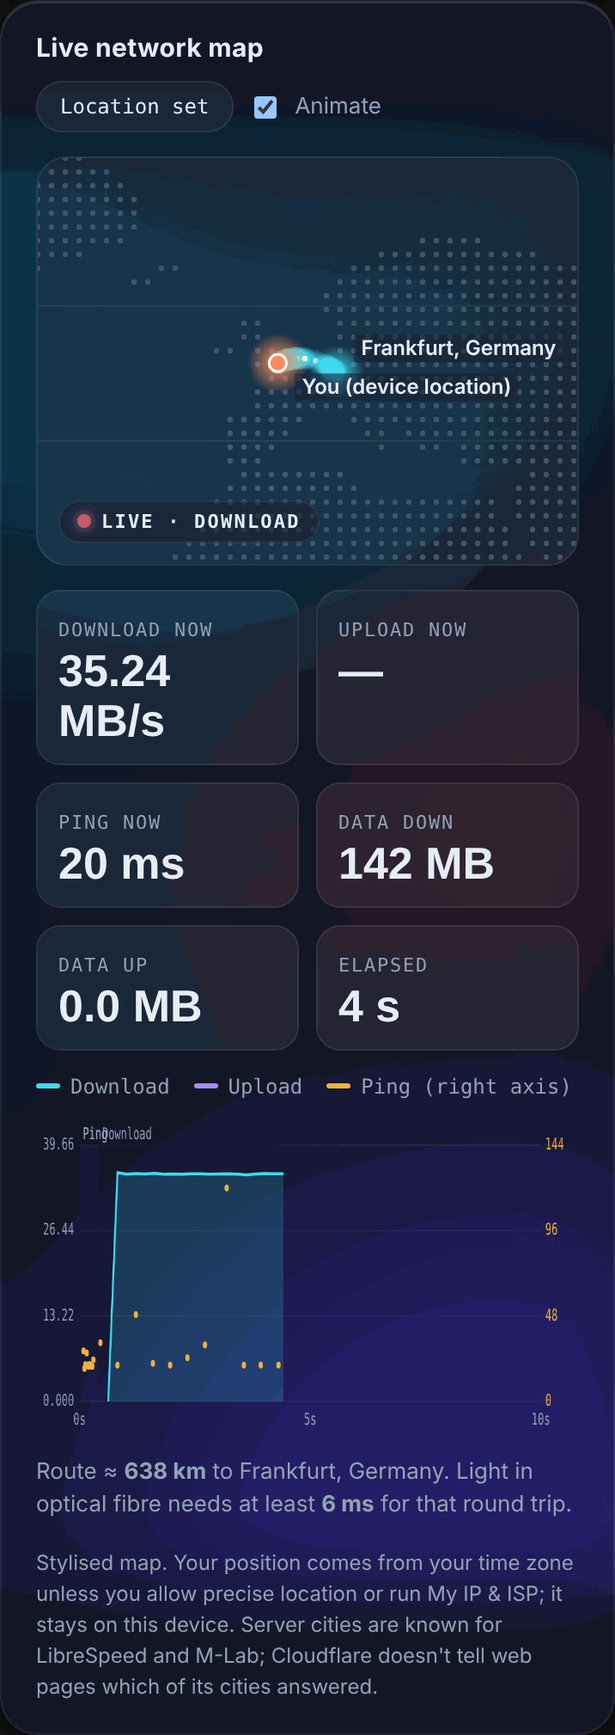
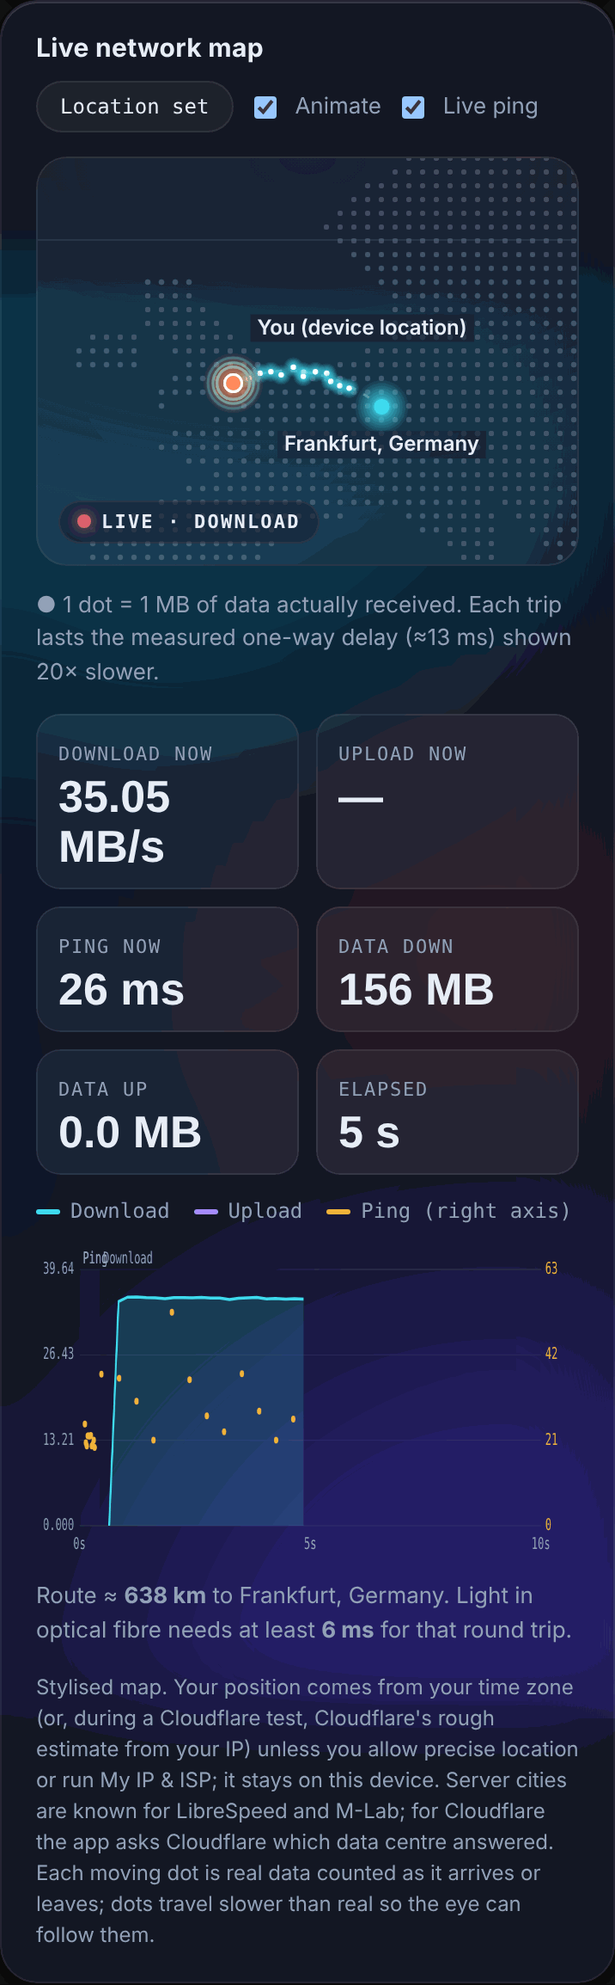
Live map: real-time packet view driven by measured bytes and delay
- Each dot is data actually received/sent (16 KB–256 MB per dot, shown in a
  legend); trip time = measured one-way delay shown 20x slower; pings go
  out and back over their measured round-trip time
- Live ping after a test (every 2 s, only while the map is visible; toggle)
- Cloudflare: look up the answering data centre via /meta or
  /cdn-cgi/trace and draw the real route; more airport codes
- Map zooms to fit short routes; labels never cover markers or the route
- README: map, servers, privacy, limitations and changelog updated;
  screenshots regenerated (fictional sample data)

Claude-Session: https://claude.ai/code/session_01WewRtG4UNMSrnVFMQRkw9g

diff --git a/index.html b/index.html
@@ -333,9 +333,11 @@ footer{font-size:12px;color:var(--muted);text-align:center}
   <section class="glass pad" id="livePanel" aria-label="Live network map">
     <div class="srvhead"><h2>Live network map</h2>
       <div class="row"><button class="ghost" id="lvLocate">Use precise location</button>
-        <label class="consent" style="align-items:center"><input type="checkbox" id="lvAnim" checked> Animate</label></div></div>
+        <label class="consent" style="align-items:center"><input type="checkbox" id="lvAnim" checked> Animate</label>
+        <label class="consent" style="align-items:center" title="While the map is on screen, ping the last test server every 2 seconds"><input type="checkbox" id="lvLive"> Live ping</label></div></div>
     <div class="mapwrap"><canvas id="map" width="1200" height="560" aria-label="Map of the route between you and the test server"></canvas>
       <div class="lvbadge" id="lvBadge"><i></i><span id="lvState">Idle</span></div></div>
+    <p class="note" id="lvKey" aria-live="off"></p>
     <div class="stats">
       <div class="stat"><small>Download now</small><b id="lvDown">—</b></div>
       <div class="stat"><small>Upload now</small><b id="lvUp">—</b></div>
@@ -347,7 +349,7 @@ footer{font-size:12px;color:var(--muted);text-align:center}
     <div class="legend"><span><i style="background:var(--down)"></i>Download</span><span><i style="background:var(--up)"></i>Upload</span><span><i style="background:var(--ok)"></i>Ping (right axis)</span></div>
     <canvas id="tele" width="1000" height="360" aria-label="Live timeline of download, upload and ping"></canvas>
     <p class="note" id="lvRoute">Run a test to trace the route to the server.</p>
-    <p class="cant" id="lvWhere">Stylised map. Your position comes from your time zone unless you allow precise location or run My IP &amp; ISP; it stays on this device. Server cities are known for LibreSpeed and M-Lab; Cloudflare doesn't tell web pages which of its cities answered.</p>
+    <p class="cant" id="lvWhere">Stylised map. Your position comes from your time zone (or, during a Cloudflare test, Cloudflare's rough estimate from your IP) unless you allow precise location or run My IP &amp; ISP; it stays on this device. Server cities are known for LibreSpeed and M-Lab; for Cloudflare the app asks Cloudflare which data centre answered. Each moving dot is real data counted as it arrives or leaves; dots travel slower than real so the eye can follow them.</p>
   </section>
 
   <!-- ============ Toolkit ============ -->
@@ -1402,8 +1404,11 @@ let VIEW=null; // fitted window: {lon0,lat1,ppd}; set per frame size and route
 const proj=(lon,lat)=>[(lon-VIEW.lon0)*VIEW.ppd,(VIEW.lat1-lat)*VIEW.ppd];
 function fitView(W,H,pts){
   let lo0=-180,lo1=180,la0=LAT_BOT,la1=LAT_TOP;
-  if(pts.length){ lo0=Math.min(...pts.map(p=>p.lon))-28; lo1=Math.max(...pts.map(p=>p.lon))+28; la0=Math.min(...pts.map(p=>p.lat))-16; la1=Math.max(...pts.map(p=>p.lat))+18;
-    if(lo1-lo0<80){ const c=(lo0+lo1)/2; lo0=c-40; lo1=c+40 } }
+  if(pts.length){ // zoom so the route fills the frame: a short route (London–Frankfurt) gets a regional view, not a world view
+    const mnLo=Math.min(...pts.map(p=>p.lon)), mxLo=Math.max(...pts.map(p=>p.lon)), mnLa=Math.min(...pts.map(p=>p.lat)), mxLa=Math.max(...pts.map(p=>p.lat));
+    const pLo=Math.max(8,(mxLo-mnLo)*0.45), pLa=Math.max(6,(mxLa-mnLa)*0.45);
+    lo0=mnLo-pLo; lo1=mxLo+pLo; la0=mnLa-pLa; la1=mxLa+pLa+4;
+    if(lo1-lo0<32){ const c=(lo0+lo1)/2; lo0=c-16; lo1=c+16 } }
   let ppd=Math.min(W/(lo1-lo0),H/(la1-la0)); // same scale both ways, then grow the short side to fill the frame
   const cl=(lo0+lo1)/2, ca=(la0+la1)/2, spanLo=W/ppd, spanLa=H/ppd;
   let lon0=Math.max(-180,Math.min(180-spanLo,cl-spanLo/2)); if(spanLo>=360) lon0=-180-(spanLo-360)/2;
@@ -1430,12 +1435,13 @@ const TZ_LOC={"Asia/Kolkata":[20.6,78.9,"India"],"Asia/Calcutta":[20.6,78.9,"Ind
  "America/Sao_Paulo":[-23.5,-46.6,"São Paulo"],"America/Argentina/Buenos_Aires":[-34.6,-58.4,"Buenos Aires"],"Australia/Sydney":[-33.9,151.2,"Sydney"],
  "Australia/Melbourne":[-37.8,145,"Melbourne"],"Australia/Perth":[-31.95,115.9,"Perth"],"Pacific/Auckland":[-36.85,174.8,"Auckland"]};
 // Airport codes in M-Lab machine names (e.g. mlab1-maa02 → Chennai) and city names in LibreSpeed server names.
-const IATA=Object.fromEntries(`maa 13.08 80.27 Chennai|bom 19.08 72.88 Mumbai|del 28.61 77.21 Delhi|blr 12.97 77.59 Bengaluru|hyd 17.39 78.49 Hyderabad|ccu 22.57 88.36 Kolkata|sin 1.35 103.82 Singapore|hkg 22.32 114.17 Hong Kong|tpe 25.03 121.56 Taipei|nrt 35.68 139.69 Tokyo|hnd 35.68 139.69 Tokyo|tyo 35.68 139.69 Tokyo|kix 34.69 135.5 Osaka|icn 37.57 126.98 Seoul|syd -33.87 151.21 Sydney|mel -37.81 144.96 Melbourne|akl -36.85 174.76 Auckland|bkk 13.75 100.5 Bangkok|kul 3.14 101.69 Kuala Lumpur|cgk -6.2 106.85 Jakarta|mnl 14.6 120.98 Manila|dxb 25.2 55.27 Dubai|doh 25.29 51.53 Doha|bah 26.23 50.58 Bahrain|tlv 32.08 34.78 Tel Aviv|ist 41.01 28.98 Istanbul|jnb -26.2 28.05 Johannesburg|cpt -33.92 18.42 Cape Town|nbo -1.29 36.82 Nairobi|los 6.52 3.38 Lagos|cai 30.04 31.24 Cairo|tun 36.8 10.18 Tunis|lhr 51.51 -0.13 London|lon 51.51 -0.13 London|ams 52.37 4.9 Amsterdam|fra 50.11 8.68 Frankfurt|cdg 48.86 2.35 Paris|par 48.86 2.35 Paris|mad 40.42 -3.7 Madrid|lis 38.72 -9.14 Lisbon|mil 45.46 9.19 Milan|mxp 45.46 9.19 Milan|fco 41.9 12.5 Rome|vie 48.21 16.37 Vienna|prg 50.08 14.44 Prague|waw 52.23 21.01 Warsaw|arn 59.33 18.07 Stockholm|cph 55.68 12.57 Copenhagen|osl 59.91 10.75 Oslo|hel 60.17 24.94 Helsinki|dub 53.35 -6.26 Dublin|ath 37.98 23.73 Athens|svo 55.76 37.62 Moscow|lga 40.71 -74.01 New York|jfk 40.71 -74.01 New York|ewr 40.71 -74.01 New York|nyc 40.71 -74.01 New York|iad 38.9 -77.04 Washington|was 38.9 -77.04 Washington|atl 33.75 -84.39 Atlanta|mia 25.76 -80.19 Miami|ord 41.88 -87.63 Chicago|chi 41.88 -87.63 Chicago|dfw 32.78 -96.8 Dallas|iah 29.76 -95.37 Houston|den 39.74 -104.99 Denver|lax 34.05 -118.24 Los Angeles|sjc 37.34 -121.89 San Jose|sfo 37.77 -122.42 San Francisco|sea 47.61 -122.33 Seattle|pdx 45.52 -122.68 Portland|phx 33.45 -112.07 Phoenix|slc 40.76 -111.89 Salt Lake City|msp 44.98 -93.27 Minneapolis|bos 42.36 -71.06 Boston|yyz 43.65 -79.38 Toronto|yul 45.5 -73.57 Montreal|yvr 49.28 -123.12 Vancouver|gru -23.55 -46.63 São Paulo|scl -33.45 -70.67 Santiago|bog 4.71 -74.07 Bogotá|eze -34.6 -58.38 Buenos Aires|mex 19.43 -99.13 Mexico City|lim -12.05 -77.04 Lima`
+const IATA=Object.fromEntries(`maa 13.08 80.27 Chennai|bom 19.08 72.88 Mumbai|del 28.61 77.21 Delhi|blr 12.97 77.59 Bengaluru|hyd 17.39 78.49 Hyderabad|ccu 22.57 88.36 Kolkata|sin 1.35 103.82 Singapore|hkg 22.32 114.17 Hong Kong|tpe 25.03 121.56 Taipei|nrt 35.68 139.69 Tokyo|hnd 35.68 139.69 Tokyo|tyo 35.68 139.69 Tokyo|kix 34.69 135.5 Osaka|icn 37.57 126.98 Seoul|syd -33.87 151.21 Sydney|mel -37.81 144.96 Melbourne|akl -36.85 174.76 Auckland|bkk 13.75 100.5 Bangkok|kul 3.14 101.69 Kuala Lumpur|cgk -6.2 106.85 Jakarta|mnl 14.6 120.98 Manila|dxb 25.2 55.27 Dubai|doh 25.29 51.53 Doha|bah 26.23 50.58 Bahrain|tlv 32.08 34.78 Tel Aviv|ist 41.01 28.98 Istanbul|jnb -26.2 28.05 Johannesburg|cpt -33.92 18.42 Cape Town|nbo -1.29 36.82 Nairobi|los 6.52 3.38 Lagos|cai 30.04 31.24 Cairo|tun 36.8 10.18 Tunis|lhr 51.51 -0.13 London|lon 51.51 -0.13 London|ams 52.37 4.9 Amsterdam|fra 50.11 8.68 Frankfurt|cdg 48.86 2.35 Paris|par 48.86 2.35 Paris|mad 40.42 -3.7 Madrid|lis 38.72 -9.14 Lisbon|mil 45.46 9.19 Milan|mxp 45.46 9.19 Milan|fco 41.9 12.5 Rome|vie 48.21 16.37 Vienna|prg 50.08 14.44 Prague|waw 52.23 21.01 Warsaw|arn 59.33 18.07 Stockholm|cph 55.68 12.57 Copenhagen|osl 59.91 10.75 Oslo|hel 60.17 24.94 Helsinki|dub 53.35 -6.26 Dublin|ath 37.98 23.73 Athens|svo 55.76 37.62 Moscow|lga 40.71 -74.01 New York|jfk 40.71 -74.01 New York|ewr 40.71 -74.01 New York|nyc 40.71 -74.01 New York|iad 38.9 -77.04 Washington|was 38.9 -77.04 Washington|atl 33.75 -84.39 Atlanta|mia 25.76 -80.19 Miami|ord 41.88 -87.63 Chicago|chi 41.88 -87.63 Chicago|dfw 32.78 -96.8 Dallas|iah 29.76 -95.37 Houston|den 39.74 -104.99 Denver|lax 34.05 -118.24 Los Angeles|sjc 37.34 -121.89 San Jose|sfo 37.77 -122.42 San Francisco|sea 47.61 -122.33 Seattle|pdx 45.52 -122.68 Portland|phx 33.45 -112.07 Phoenix|slc 40.76 -111.89 Salt Lake City|msp 44.98 -93.27 Minneapolis|bos 42.36 -71.06 Boston|yyz 43.65 -79.38 Toronto|yul 45.5 -73.57 Montreal|yvr 49.28 -123.12 Vancouver|gru -23.55 -46.63 São Paulo|scl -33.45 -70.67 Santiago|bog 4.71 -74.07 Bogotá|eze -34.6 -58.38 Buenos Aires|mex 19.43 -99.13 Mexico City|lim -12.05 -77.04 Lima|amd 23.02 72.57 Ahmedabad|bbi 20.3 85.82 Bhubaneswar|cok 9.93 76.27 Kochi|nag 21.15 79.09 Nagpur|pat 25.59 85.14 Patna|ixc 30.73 76.78 Chandigarh|cmb 6.93 79.85 Colombo|dac 23.81 90.41 Dhaka|ktm 27.72 85.32 Kathmandu|khi 24.86 67 Karachi|isb 33.68 73.05 Islamabad|ruh 24.71 46.68 Riyadh|jed 21.49 39.19 Jeddah|mct 23.59 58.41 Muscat|kwi 29.38 47.99 Kuwait City|zrh 47.38 8.54 Zurich|gva 46.2 6.14 Geneva|bru 50.85 4.35 Brussels|man 53.48 -2.24 Manchester|edi 55.95 -3.19 Edinburgh|mrs 43.3 5.37 Marseille|bcn 41.39 2.17 Barcelona|muc 48.14 11.58 Munich|ham 53.55 9.99 Hamburg|dus 51.23 6.78 Düsseldorf|txl 52.52 13.4 Berlin|ber 52.52 13.4 Berlin|bud 47.5 19.04 Budapest|otp 44.43 26.1 Bucharest|sof 42.7 23.32 Sofia|kbp 50.45 30.52 Kyiv|bne -27.47 153.03 Brisbane|per -31.95 115.86 Perth|adl -34.93 138.6 Adelaide|han 21.03 105.85 Hanoi|sgn 10.82 106.63 Ho Chi Minh City|pnh 11.56 104.92 Phnom Penh|rgn 16.87 96.2 Yangon|cmn 33.57 -7.59 Casablanca|acc 5.6 -0.19 Accra|dar -6.79 39.21 Dar es Salaam|kgl -1.94 30.06 Kigali|gig -22.91 -43.17 Rio de Janeiro|for -3.72 -38.54 Fortaleza|uio -0.18 -78.47 Quito|pty 8.98 -79.52 Panama City|qro 20.59 -100.39 Querétaro|yyc 51.05 -114.07 Calgary|las 36.17 -115.14 Las Vegas|mci 39.1 -94.58 Kansas City|clt 35.23 -80.84 Charlotte|tpa 27.95 -82.46 Tampa|bna 36.16 -86.78 Nashville|ind 39.77 -86.16 Indianapolis|cmh 39.96 -83 Columbus|phl 39.95 -75.17 Philadelphia|pit 40.44 -80 Pittsburgh|stl 38.63 -90.2 St. Louis|sat 29.42 -98.49 San Antonio|aus 30.27 -97.74 Austin|hnl 21.31 -157.86 Honolulu|anc 61.22 -149.9 Anchorage|fuk 33.59 130.4 Fukuoka|ngo 35.18 136.91 Nagoya|cts 43.06 141.35 Sapporo`
  .split("|").map(r=>{const p=r.split(" "); return [p[0],[+p[1],+p[2],p.slice(3).join(" ")]]}));
 const CITY=Object.fromEntries(`Roma 41.9 12.5|Rome 41.9 12.5|London 51.51 -0.13|Frankfurt 50.11 8.68|Amsterdam 52.37 4.9|New York 40.71 -74.01|Atlanta 33.75 -84.39|Los Angeles 34.05 -118.24|Poznan 52.41 16.93|Prague 50.08 14.44|Tokyo 35.68 139.69|Las Vegas 36.17 -115.14|Denver 39.74 -104.99|Chicago 41.88 -87.63|Grand Rapids 42.96 -85.67|Helsinki 60.17 24.94|Novi Sad 45.27 19.83|Argalasti 39.23 23.22|Belgrade 44.8 20.46|Paris 48.86 2.35|Madrid 40.42 -3.7|Milan 45.46 9.19|Vienna 48.21 16.37|Warsaw 52.23 21.01|Stockholm 59.33 18.07|Oslo 59.91 10.75|Zurich 47.38 8.54|Singapore 1.35 103.82|Mumbai 19.08 72.88|Chennai 13.08 80.27|Delhi 28.61 77.21|Dallas 32.78 -96.8|Miami 25.76 -80.19|Seattle 47.61 -122.33|Toronto 43.65 -79.38|Sydney -33.87 151.21|Hong Kong 22.32 114.17`
  .split("|").map(r=>{const p=r.split(" "); return [p.slice(0,-2).join(" "),[+p[p.length-2],+p[p.length-1]]]}));
 function youLoc(){
   const g=store.get("geo",null); if(g&&g.src) return {lat:g.lat,lon:g.lon,label:g.src==="device"?"You (device location)":"You (from IP lookup)",exact:g.src==="device"};
+  if(cfYou) return cfYou;
   const tz=(Intl.DateTimeFormat().resolvedOptions().timeZone)||"", z=TZ_LOC[tz];
   return z?{lat:z[0],lon:z[1],label:`You (approx. · ${z[2]} time zone)`,exact:false}:null;
 }
@@ -1450,22 +1456,40 @@ const hav=(a,b)=>{ const R=6371, r=Math.PI/180, dLa=(b.lat-a.lat)*r, dLo=(b.lon-
   return 2*R*Math.asin(Math.sqrt(Math.sin(dLa/2)**2+Math.cos(a.lat*r)*Math.cos(b.lat*r)*Math.sin(dLo/2)**2)) };
 
 let tel={on:false,t0:0,phase:"idle",rates:[],pings:[],bytes:{down:0,up:0},cur:{down:0,up:0,ping:NaN},you:null,srv:null,phases:[]};
-function telStart(){ tel={on:true,t0:performance.now(),phase:"ping",rates:[],pings:[],bytes:{down:0,up:0},cur:{down:0,up:0,ping:NaN},you:youLoc(),srv:null,phases:[{p:"ping",t:0}]};
+function telStart(){ clearTimeout(idleT); idleOn=false; pk=[]; hits=[]; pkSeen.dir=""; const last=tel.lastSrv; tel={lastSrv:last,on:true,t0:performance.now(),phase:"ping",rates:[],pings:[],bytes:{down:0,up:0},cur:{down:0,up:0,ping:NaN},you:youLoc(),srv:null,phases:[{p:"ping",t:0}]};
   $("lvBadge").classList.add("live"); $("lvState").textContent="Live · ping"; mapKick(); telDraw() }
-function telServer(s,loc){ tel.srv=serverLoc(s,loc); tel.srvName=s.name; mapBase=null; routeText(null) }
+/* Cloudflare is anycast: ask it which data centre (and roughly which client position) answered.
+   Tried in order; each is optional and silent if the browser or network refuses it. */
+let cfColo=null, cfYou=null;
+async function cfLocate(){
+  if(cfColo) return cfColo;
+  const get=async(u,json)=>{ const ctl=new AbortController(), tm=setTimeout(()=>ctl.abort(),3000);
+    try{ const r=await fetch(u,{cache:"no-store",credentials:"omit",signal:ctl.signal}); if(!r.ok) throw new Error(r.status); return json?await r.json():await r.text() } finally{ clearTimeout(tm) } };
+  try{ const m=await get("https://speed.cloudflare.com/meta?r="+nonce(),true), c=m&&m.colo;
+    if(fin(+m.latitude)&&fin(+m.longitude)) cfYou={lat:+(+m.latitude).toFixed(1),lon:+(+m.longitude).toFixed(1),label:"You (approx. · from Cloudflare)",exact:false};
+    if(c&&fin(+c.lat)&&fin(+c.lon)) return cfColo={lat:+c.lat,lon:+c.lon,label:`Cloudflare · ${c.city||c.iata}`,iata:c.iata} }catch{}
+  for(const u of ["https://speed.cloudflare.com/cdn-cgi/trace","https://1.1.1.1/cdn-cgi/trace"]){
+    try{ const t=await get(u+"?r="+nonce()), code=(t.match(/^colo=([A-Z]{3})\s*$/m)||[])[1];
+      if(code){ const c=IATA[code.toLowerCase()]; return cfColo=c?{lat:c[0],lon:c[1],label:`Cloudflare · ${c[2]}`,iata:code}:{near:true,label:`Cloudflare · ${code}`,iata:code} } }catch{}
+  }
+  return null;
+}
+function telServer(s,loc){ tel.srv=s.id==="cf"&&cfColo?cfColo:serverLoc(s,loc); tel.srvName=s.name; tel.lastSrv=s; mapBase=null; routeText(null);
+  if(s.id==="cf"&&!cfColo) cfLocate().then(c=>{ if(c&&tel.srvName===s.name){ tel.srv=c; if(!store.get("geo",null)&&cfYou) tel.you=cfYou; mapBase=null; routeText(null); mapKick() } });
+}
 function telPhase(p){ if(!tel.on) return; tel.phase=p; tel.phases.push({p,t:(performance.now()-tel.t0)/1000}); $("lvState").textContent="Live · "+({ping:"ping",down:"download",up:"upload"}[p]||p); if(p!=="down") tel.cur.down=0 }
 function telRate(dir,r){ if(!tel.on) return; tel.cur[dir]=r; tel.rates.push({t:(performance.now()-tel.t0)/1000,dir,r}); telDraw() }
-function telPing(ms){ if(!tel.on||!fin(ms)) return; tel.cur.ping=ms; tel.pings.push({t:(performance.now()-tel.t0)/1000,ms}); }
+function telPing(ms){ if(!tel.on||!fin(ms)) return; tel.cur.ping=ms; tel.pings.push({t:(performance.now()-tel.t0)/1000,ms}); if(tel.phase==="ping") pkPing(ms) }
 function telEnd(ok,res){
   tel.on=false; tel.phase="done"; tel.cur.down=tel.cur.up=0; if(res&&fin(res.ping)) tel.cur.ping=res.ping; $("lvBadge").classList.remove("live");
-  $("lvState").textContent=ok?`Last test · ${new Date().toLocaleTimeString([], {hour:"2-digit",minute:"2-digit"})}`:"Stopped";
-  telDraw(); routeText(res);
+  tel.endText=ok?`Last test · ${new Date().toLocaleTimeString([], {hour:"2-digit",minute:"2-digit"})}`:"Stopped"; $("lvState").textContent=tel.endText;
+  telDraw(); routeText(res); setTimeout(idleTick,1500);
 }
 function mb(b){ return b>=1e9?(b/1e9).toFixed(2)+" GB":(b/1e6).toFixed(b>=1e8?0:1)+" MB" }
 function telDraw(){
   $("lvDown").textContent=tel.cur.down?fmt(tel.cur.down)+" "+unitLabel():"—"; $("lvUp").textContent=tel.cur.up?fmt(tel.cur.up)+" "+unitLabel():"—";
   $("lvPing").textContent=fin(tel.cur.ping)?tel.cur.ping.toFixed(0)+" ms":"—";
-  document.querySelector("#lvPing").previousElementSibling.textContent=tel.on?"Ping now":"Ping (idle)";
+  document.querySelector("#lvPing").previousElementSibling.textContent=tel.on||idleOn?"Ping now":"Ping (idle)";
   $("lvBD").textContent=mb(tel.bytes.down); $("lvBU").textContent=mb(tel.bytes.up);
   $("lvTime").textContent=tel.t0?((tel.on?(performance.now()-tel.t0):(tel.rates.length?tel.rates[tel.rates.length-1].t*1000:0))/1000).toFixed(0)+" s":"0 s";
   const c=$("tele"), x=c.getContext("2d"), W=c.width, H=c.height, L=80, R=70, T=26, B=36; x.clearRect(0,0,W,H);
@@ -1495,14 +1519,42 @@ function routeText(res){
   if(s.near){ el.textContent="Cloudflare answers from its data centre closest to you, so the route is short. It doesn't tell web pages which city that is."; return }
   const d=hav(y,s), light=2*d/200; // light in optical fibre ≈ 200 km per millisecond
   const ping=res&&fin(res.ping)?res.ping:NaN;
-  el.innerHTML=`Route ≈ <b>${Math.round(d).toLocaleString()} km</b> to ${esc(s.label)}${y.exact?"":" (from your approximate position)"}. Light in optical fibre needs at least <b>${light.toFixed(0)} ms</b> for that round trip`+
+  el.innerHTML=`Route ≈ <b>${Math.round(d).toLocaleString()} km</b> to ${esc(s.label)}${y.exact?"":" (from your approximate position)"}. Light in optical fibre needs ${light<1?"<b>under 1 ms</b>":`at least <b>${light.toFixed(0)} ms</b>`} for that round trip`+
     (fin(ping)?`; you measured <b>${ping.toFixed(0)} ms</b>`+(ping>=light?`, so about ${(ping-light).toFixed(0)} ms is routing detours, Wi-Fi and processing.`
       :`. That's faster than light could cover this distance, so your real position${y.exact?"":" (estimated from your time zone)"} or the server's is closer than shown${y.exact?"":". Tap \"Use precise location\" for an exact route"}.`):".")+
     (d>3000?" A closer server would give higher speeds and lower ping.":"");
 }
 
 /* ---- map rendering: static dots cached; arc and particles drawn at ≤30 fps ---- */
-let mapBase=null, mapBaseTheme="", parts=[], mapRaf=0, mapLast=0;
+let mapBase=null, mapBaseTheme="", mapRaf=0, mapLast=0;
+/* Packet view. A dot is spawned only when that much data has really arrived (download) or been sent (upload),
+   counted from the same byte counters as the result. A dot's trip lasts the measured one-way delay (ping ÷ 2)
+   slowed down SLOW times, so the eye can follow it; pings go out and back over their measured round-trip time. */
+const SLOW=20, DOT_STEPS=[16e3,64e3,256e3,1e6,4e6,16e6,64e6,256e6];
+let pk=[], hits=[], pkSeen={down:0,up:0,acc:0,dir:"",tLast:0}, pkPer=0;
+const pkDur=ms=>Math.min(2400,Math.max(380,(fin(ms)?ms:60)/2*SLOW));
+function pkPing(ms){ if(!$("lvAnim").checked||!fin(ms)) return; pk.push({t0:performance.now(),dur:Math.min(4000,Math.max(700,ms*SLOW)),dir:"ping"}); mapKick() }
+function pkFeed(now){
+  const dir=tel.phase; if(dir!=="down"&&dir!=="up"){ pkSeen.dir=""; return }
+  const b=tel.bytes[dir]||0; if(pkSeen.dir!==dir){ pkSeen.dir=dir; pkSeen[dir]=b; pkSeen.acc=0; pkSeen.tLast=now; return }
+  const got=Math.max(0,b-pkSeen[dir]); pkSeen[dir]=b; pkSeen.acc+=got;
+  const rate=tel.cur[dir]||0; pkPer=DOT_STEPS.find(v=>rate/v<=50)||DOT_STEPS[DOT_STEPS.length-1];
+  let n=Math.floor(pkSeen.acc/pkPer); pkSeen.acc-=n*pkPer; n=Math.min(n,14);
+  const dur=pkDur(tel.cur.ping), gap=n>1?Math.min(120,(now-pkSeen.tLast)/n):0;
+  for(let i=0;i<n;i++) pk.push({t0:now+i*gap,dur,dir,j:(Math.random()-.5)});
+  pkSeen.tLast=now;
+}
+const sizeTxt=b=>b>=1e6?(b/1e6)+" MB":(b/1e3)+" KB";
+let keyTxt="";
+function mapKey(){
+  const s=tel.lastSrv, ping=tel.cur.ping;
+  const t=tel.on&&(tel.phase==="down"||tel.phase==="up")&&pkPer
+    ? `● 1 dot = ${sizeTxt(pkPer)} of data actually ${tel.phase==="down"?"received":"sent"}. Each trip lasts the measured one-way delay (≈${fin(ping)?(ping/2).toFixed(0):"?"} ms) shown ${SLOW}× slower.`
+    : tel.on&&tel.phase==="ping" ? `● Ping: each dot goes out and back over its measured round-trip time, shown ${SLOW}× slower.`
+    : idleOn&&s ? `● Live ping to ${s.name} every 2 s, shown ${SLOW}× slower. Untick "Live ping" to stop.`
+    : "";
+  if(t!==keyTxt){ keyTxt=t; $("lvKey").textContent=t }
+}
 function drawMapBase(W,H,u){
   const off=document.createElement("canvas"); off.width=W; off.height=H; const x=off.getContext("2d");
   x.fillStyle=css("--muted"); x.globalAlpha=.34;
@@ -1524,41 +1576,63 @@ function drawMap(ts){
   // Labels: try a few positions so "You" and the server never sit on top of each other when the two are close (e.g. London–Frankfurt).
   const placed=[], hit=(a,b)=>a[0]<b[0]+b[2]&&b[0]<a[0]+a[2]&&a[1]<b[1]+b[3]&&b[1]<a[1]+a[3];
   const label=(txt,X,Yp,dy)=>{ x.font=`600 ${12*u}px ${css("--body")}`; const w=x.measureText(txt).width;
-    let lx,ly; for(const [side,d] of [[0,dy],[0,-dy+4*u],[1,dy],[1,-dy+4*u],[0,dy+(dy<0?-18:18)*u],[1,dy+(dy<0?-18:18)*u]]){
-      const right=(X+14*u+w>W-6*u)!==!!side; lx=Math.max(6*u,Math.min(W-w-6*u,right?X-14*u-w:X+14*u)); ly=Math.min(H-8*u,Math.max(14*u,Yp+d));
-      if(!placed.some(r=>hit(r,[lx-4*u,ly-10*u,w+8*u,16*u]))) break }
+    // Candidates: beside the marker (preferred side, then the other), then centred above / below it, then further out.
+    const cl=v=>Math.max(6*u,Math.min(W-w-6*u,v)), fy=v=>Math.min(H-8*u,Math.max(14*u,v)), flip=X+14*u+w>W-6*u;
+    const side=(sd,d)=>[cl((flip!==!!sd)?X-14*u-w:X+14*u),fy(Yp+d)];
+    let lx,ly; for(const [cx,cy] of [side(0,dy),side(1,dy),[cl(X-w/2),fy(Yp-16*u)],[cl(X-w/2),fy(Yp+24*u)],side(0,-dy+4*u),side(1,-dy+4*u),side(0,dy+(dy<0?-18:18)*u),side(1,dy+(dy<0?-18:18)*u)]){
+      lx=cx; ly=cy; if(!placed.some(r=>hit(r,[lx-4*u,ly-10*u,w+8*u,16*u]))) break }
     placed.push([lx-4*u,ly-10*u,w+8*u,16*u]);
     x.fillStyle=css("--glass-strong"); x.globalAlpha=.85; x.fillRect(lx-4*u,ly-10*u,w+8*u,16*u); x.globalAlpha=1;
     x.fillStyle=css("--ink"); x.textAlign="left"; x.textBaseline="middle"; x.fillText(txt,lx,ly-2*u) };
   if(!y){ x.fillStyle=css("--muted"); x.font=`500 ${12*u}px ${css("--mono")}`; x.textAlign="center"; x.fillText("Tap \"Use precise location\" to place yourself",W/2,H/2); return }
   const Y=proj(y.lon,y.lat); let S=null; if(s&&!s.near) S=proj(s.lon,s.lat);
   const rate=tel.phase==="up"?tel.cur.up:tel.cur.down, lvl=rate>0?Math.min(1,Math.log10(1+bpsToMbps(rate))/3):0; // 0..1 across 1 Mbps–1 Gbps
-  if(S&&Math.hypot(S[0]-Y[0],S[1]-Y[1])>24*u){
+  const now=performance.now(); if(tel.on&&anim) pkFeed(now); if(!anim){ pk=[]; hits=[] }
+  let near=false;
+  // Same area (e.g. Cloudflare in your own city): draw the server a short way off, labelled "near you", so the trips stay visible.
+  if(S&&Math.hypot(S[0]-Y[0],S[1]-Y[1])<36*u){ const sep=Math.max(60*u,W*0.26), dx=Y[0]+sep<W-20*u?sep:-sep; S=[Y[0]+dx,Math.max(24*u,Y[1]-sep*0.45)]; near=true }
+  for(const m of [Y,S]) if(m) placed.push([m[0]-10*u,m[1]-10*u,20*u,20*u]); // labels never cover either marker
+  if(S){
     const mid=[(S[0]+Y[0])/2,(S[1]+Y[1])/2], dist=Math.hypot(S[0]-Y[0],S[1]-Y[1]), C=[mid[0],Math.max(10*u,mid[1]-dist*0.3)];
+    for(const k of [.2,.35,.5,.65,.8]){ const q=arcPt(S,Y,C,k); placed.push([q[0]-6*u,q[1]-6*u,12*u,12*u]) } // keep labels off the route
     x.strokeStyle=css("--muted"); x.globalAlpha=.6; x.lineWidth=1.5*u; x.setLineDash([4*u,5*u]); x.beginPath(); x.moveTo(S[0],S[1]); x.quadraticCurveTo(C[0],C[1],Y[0],Y[1]); x.stroke(); x.setLineDash([]); x.globalAlpha=1;
-    if(tel.on&&anim&&(tel.phase==="down"||tel.phase==="up")){
-      if(parts.length<10+lvl*40&&Math.random()<0.25+lvl) parts.push({t:0,v:0.004+0.012*lvl+Math.random()*0.004});
-      const col=tel.phase==="down"?css("--down"):css("--up");
-      parts=parts.filter(p=>(p.t+=p.v)<1);
-      for(const p of parts){ const q=tel.phase==="down"?arcPt(S,Y,C,p.t):arcPt(Y,S,C,p.t); glow(x,q[0],q[1],7*u,col); x.fillStyle="#fff"; x.beginPath(); x.arc(q[0],q[1],1.6*u,0,Math.PI*2); x.fill() }
-    } else if(tel.on&&anim&&tel.phase==="ping"){
-      const k=(t*0.8)%1; for(const q of [arcPt(S,Y,C,k),arcPt(Y,S,C,k)]) glow(x,q[0],q[1],8*u,css("--ok"));
-    } else parts=[];
+    const cD=css("--down"), cU=css("--up"), cP=css("--ok"), nx=-(S[1]-Y[1])/dist, ny=(S[0]-Y[0])/dist;
+    pk=pk.filter(p=>{
+      const k=(now-p.t0)/p.dur; if(k<0) return true;
+      if(k>=1){ const end=p.dir==="up"?S:Y; hits.push({x:end[0],y:end[1],t0:now,col:p.dir==="down"?cD:p.dir==="up"?cU:cP}); return false }
+      let q,col;
+      if(p.dir==="ping"){ q=k<.5?arcPt(Y,S,C,k*2):arcPt(S,Y,C,(k-.5)*2); col=cP }
+      else { q=p.dir==="down"?arcPt(S,Y,C,k):arcPt(Y,S,C,k); col=p.dir==="down"?cD:cU; const off=p.j*6*u*Math.sin(Math.PI*k); q=[q[0]+nx*off,q[1]+ny*off] }
+      glow(x,q[0],q[1],(p.dir==="ping"?8:6)*u,col); x.fillStyle="#fff"; x.beginPath(); x.arc(q[0],q[1],(p.dir==="ping"?2.2:1.6)*u,0,Math.PI*2); x.fill(); return true });
+    hits=hits.filter(h=>{ const k=(now-h.t0)/350; if(k>=1) return false; x.strokeStyle=h.col; x.globalAlpha=1-k; x.lineWidth=1.5*u; x.beginPath(); x.arc(h.x,h.y,5*u+k*12*u,0,Math.PI*2); x.stroke(); x.globalAlpha=1; return true });
     glow(x,S[0],S[1],16*u,cSrv); x.fillStyle=cSrv; x.beginPath(); x.arc(S[0],S[1],4.5*u,0,Math.PI*2); x.fill();
-    label(s.label,S[0],S[1],-12*u);
-  } else if(tel.on&&anim){ // server near you (Cloudflare) or location unknown: pulses around you
+    label(s.label+(near?" (near you)":""),S[0],S[1],-12*u);
+  } else if(tel.on&&anim){ // server position unknown: pulses around you
     const col=tel.phase==="up"?css("--up"):tel.phase==="down"?css("--down"):css("--ok");
     for(let i=0;i<3;i++){ const k=((t*(0.6+lvl))+i/3)%1; x.strokeStyle=col; x.globalAlpha=1-k; x.lineWidth=2*u; x.beginPath(); x.arc(Y[0],Y[1],6*u+k*45*u,0,Math.PI*2); x.stroke() } x.globalAlpha=1;
   }
   glow(x,Y[0],Y[1],18*u,cYou); x.fillStyle=cYou; x.beginPath(); x.arc(Y[0],Y[1],5*u,0,Math.PI*2); x.fill(); x.strokeStyle="#fff"; x.lineWidth=1.5*u; x.stroke();
   label(y.label,Y[0],Y[1],S&&S[1]<Y[1]?16*u:-12*u);
   if(s&&s.near) label(s.label,Y[0],Y[1],32*u);
+  mapKey();
 }
 function mapLoop(ts){
   mapRaf=0; if(ts-mapLast>=33){ drawMap(ts); mapLast=ts }
-  if(tel.on||parts.length) mapRaf=requestAnimationFrame(mapLoop);
+  if(tel.on||pk.length||hits.length) mapRaf=requestAnimationFrame(mapLoop);
 }
 function mapKick(){ if(!mapRaf) mapRaf=requestAnimationFrame(mapLoop) }
+var idleT=0, idleOn=false, mapVis=false; // var: read by telDraw, which can run before this line
+function idleTick(){
+  clearTimeout(idleT); const s=tel.lastSrv;
+  const ok=!running&&!tel.on&&mapVis&&!document.hidden&&$("lvLive").checked&&s&&s.kind==="http";
+  if(!ok){ if(idleOn){ idleOn=false; if(!tel.on){ $("lvBadge").classList.remove("live"); if(tel.endText) $("lvState").textContent=tel.endText } telDraw(); mapKey() } return }
+  idleOn=true; $("lvBadge").classList.add("live");
+  pingURL(s.ping(),3000).then(ms=>{ if(tel.on||!idleOn) return; tel.cur.ping=ms; pkPing(ms); telDraw(); $("lvState").textContent=`Live ping · ${ms.toFixed(0)} ms`; mapKey() })
+    .catch(()=>{ if(idleOn&&!tel.on) $("lvState").textContent="Live ping · no reply" })
+    .finally(()=>{ if(idleOn) idleT=setTimeout(idleTick,2000) });
+}
+if("IntersectionObserver" in window) new IntersectionObserver(e=>{ mapVis=e[0].isIntersecting; idleTick() }).observe($("map"));
+document.addEventListener("visibilitychange",idleTick);
 function locate(){
   if(!navigator.geolocation){ $("lvRoute").textContent="This browser can't share location."; return }
   $("lvLocate").disabled=true; $("lvRoute").textContent="Waiting for location permission…";
@@ -1825,7 +1899,8 @@ $("rtQs").onclick=e=>{ const b=e.target.closest("button"), g=e.target.closest(".
   rtAnswers[g.dataset.q]=b.dataset.v; g.querySelectorAll("button").forEach(x=>x.setAttribute("aria-pressed",x===b)); rtSave() };
 ["rtBrand","rtModel","rtHw","rtFw","rtEnc"].forEach(id=>$(id).addEventListener("change",rtSave));
 $("rtRun").onclick=runRouterCheck;
-$("lvLocate").onclick=locate; $("lvAnim").onchange=()=>{ if(!$("lvAnim").checked) parts=[]; drawMap(performance.now()) };
+$("lvLocate").onclick=locate; $("lvAnim").onchange=()=>{ if(!$("lvAnim").checked){ pk=[]; hits=[] } drawMap(performance.now()) };
+$("lvLive").checked=store.get("livePing",true); $("lvLive").onchange=()=>{ store.set("livePing",$("lvLive").checked); idleTick() };
 if((store.get("geo",{})||{}).src==="device") $("lvLocate").textContent="Location set";
 matchMedia("(prefers-color-scheme: dark)").addEventListener("change",()=>{ mapBase=null; drawMap(performance.now()); telDraw() });
 drawMap(performance.now()); telDraw();

diff --git a/README.md b/README.md
@@ -71,8 +71,11 @@ Tests the internet speed of Wi-Fi, mobile data and Ethernet **without ads, track
 |:--:|:--:|
 | <img src="docs/screenshots/04-live-map-download.png" width="300"> | <img src="docs/screenshots/05-live-map-upload.png" width="300"> |
 
-- **Map** — a stylised dot-matrix world. Particles flow **server → you** during download and **you → server** during upload; their density follows the current speed. When you and the server are close (e.g. Cloudflare's nearest city), it shows pulses around you instead.
-- **Your position** comes from your time zone by default. Tap **Use precise location** for GPS (rounded to ~1 km and kept on your device), or run **My IP & ISP** to use the IP-based city.
+- **Map** — a stylised dot-matrix world, zoomed to fit the route. Every moving dot is **real data**: a dot leaves only when that much data has actually been received (download, **server → you**, cyan) or sent (upload, **you → server**, violet), counted from the same byte counters as the result. The legend under the map says how much each dot stands for (16 KB to 256 MB, so there are never more than about 50 a second).
+- **Timing** — each dot's trip lasts the measured one-way delay (ping ÷ 2) shown **20× slower**, so the eye can follow it; a ring flashes when it lands. Pings (green) go out and come back over their measured round-trip time.
+- **Live ping** — after a test, while the map is on screen and the page is in front, the app pings the last server every 2 seconds and animates each one. Untick **Live ping** to stop; the setting is remembered.
+- **Cloudflare** — the app asks Cloudflare which data centre answered (its `/meta` and `/cdn-cgi/trace` endpoints) and draws the route to that city. If you and that data centre are in the same area, the server is drawn a short way off and labelled *near you*.
+- **Your position** comes from your time zone by default, or from Cloudflare's rough estimate based on your IP during a Cloudflare test (used for the drawing only, never stored). Tap **Use precise location** for GPS (rounded to ~1 km and kept on your device), or run **My IP & ISP** to use the IP-based city.
 - **Live tiles** — download now, upload now, ping now, data down, data up, elapsed.
 - **Timeline** — download and upload on the left axis, ping (orange dots) on the right axis, with phase bands.
 - **Route facts** — straight-line distance and the physical minimum round trip (light in fibre ≈ 200 km per ms). If your ping is *lower* than that minimum, you weren't really connected to that city (often a VPN or iCloud Private Relay).
@@ -119,7 +122,7 @@ Open with **Change server**.
 | Server | What it is | Notes |
 |---|---|---|
 | **Automatic** | Lowest ping among Cloudflare and LibreSpeed | Default |
-| **Cloudflare** | `speed.cloudflare.com`, anycast to the nearest of 300+ cities | Doesn't tell web pages which city answered, so the map shows pulses around you |
+| **Cloudflare** | `speed.cloudflare.com`, anycast to the nearest of 300+ cities | The app asks Cloudflare which data centre answered, so the map shows the real route |
 | **Measurement Lab** | Nearest M-Lab site via the ndt7 protocol | **Asks before use**: M-Lab publishes test results, including your IP address, as open data |
 | **LibreSpeed** | 22 volunteer servers (Europe, Americas, Asia, Oceania) | List refreshed from librespeed.org when reachable; a built-in snapshot otherwise |
 | **Your own server** | Any URL running `server/server.py` | See [Self-host a test server](#self-host-a-test-server) |
@@ -270,11 +273,12 @@ No accounts, no ads, no analytics, no cookies, no third-party scripts. Results, 
 
 | Feature | Contacts | What is sent |
 |---|---|---|
-| Speed test | The test server you pick; `1.1.1.1` for loaded ping | Test traffic only (random bytes) |
+| Speed test | The test server you pick; `1.1.1.1` for loaded ping; for Cloudflare, `speed.cloudflare.com/meta` and `/cdn-cgi/trace` to learn which data centre answered | Test traffic only (random bytes) |
 | Measurement Lab | M-Lab locate API + test site | Test traffic; **M-Lab publishes results with your IP** (asked first) |
 | LibreSpeed list refresh | librespeed.org | A request for the server list |
 | Router check | services.nvd.nist.gov | Brand and model only — never your settings answers or firmware version |
 | Ping monitor | 1.1.1.1, google.com or your test server | Tiny requests |
+| Live ping on the map | The last test server, every 2 s, only while the map is on screen | Tiny requests; untick **Live ping** to stop |
 | DNS benchmark | Cloudflare, Google, Quad9, AdGuard, OpenDNS DoH | DNS queries for test names |
 | My IP & ISP | ipinfo.io, ipify.org | A request (they see your IP, like any website) |
 | Device lookup | **Nothing** — uses the bundled `oui.txt` | — (api.maclookup.app only if `oui.txt` is missing) |
@@ -345,7 +349,7 @@ Open `http://<server-ip>:8080/` to run CleanSpeed against it directly — good f
 
 - **A browser can't do everything a native app can:** no traceroute, port scan, Wi-Fi channel scan or signal strength, and no router login. The router check relies on your answers plus public vulnerability data.
 - **The map is stylised**, not a geographic map; positions are approximate.
-- **Cloudflare doesn't tell web pages which city served the test**, so the route can't be drawn for it.
+- **Cloudflare's data centre** is located only when the browser can read Cloudflare's `/meta` or `/cdn-cgi/trace` reply; if both are blocked (some content blockers do), the map falls back to pulses around you.
 - **The router check** can only be as current and precise as NVD's records. "Can't confirm" means the record lacks version data — check the maker's advisory.
 - **Global medians** are third-party compilations of Ookla data with a publication lag.
 - **Speeds above a few Gbps** may be limited by the device's browser and CPU rather than the line.
@@ -411,6 +415,7 @@ CleanSpeed is not affiliated with Ookla, Speedtest®, Cloudflare, M-Lab, LibreSp
 
 | Commit | Change |
 |---|---|
+| *latest* | Live map: dots driven by real bytes and measured delay, live ping after a test, Cloudflare data-centre lookup, zoom to fit short routes, labels never cover markers or the route |
 | `e427d4e` | Detailed README with fictional sample screenshots (router, CVEs, speeds, history, MACs, IPs); self-host test server; map labels no longer overlap when you and the server are close; records covering only another firmware line count as "fixed in your version" |
 | `f7f4ce8` | Device lookup: on-device IEEE maker registry (no third-party lookup) |
 | `c4a10ea` | Router check: manufacturer-only fixes, firmware-line-aware matching |
